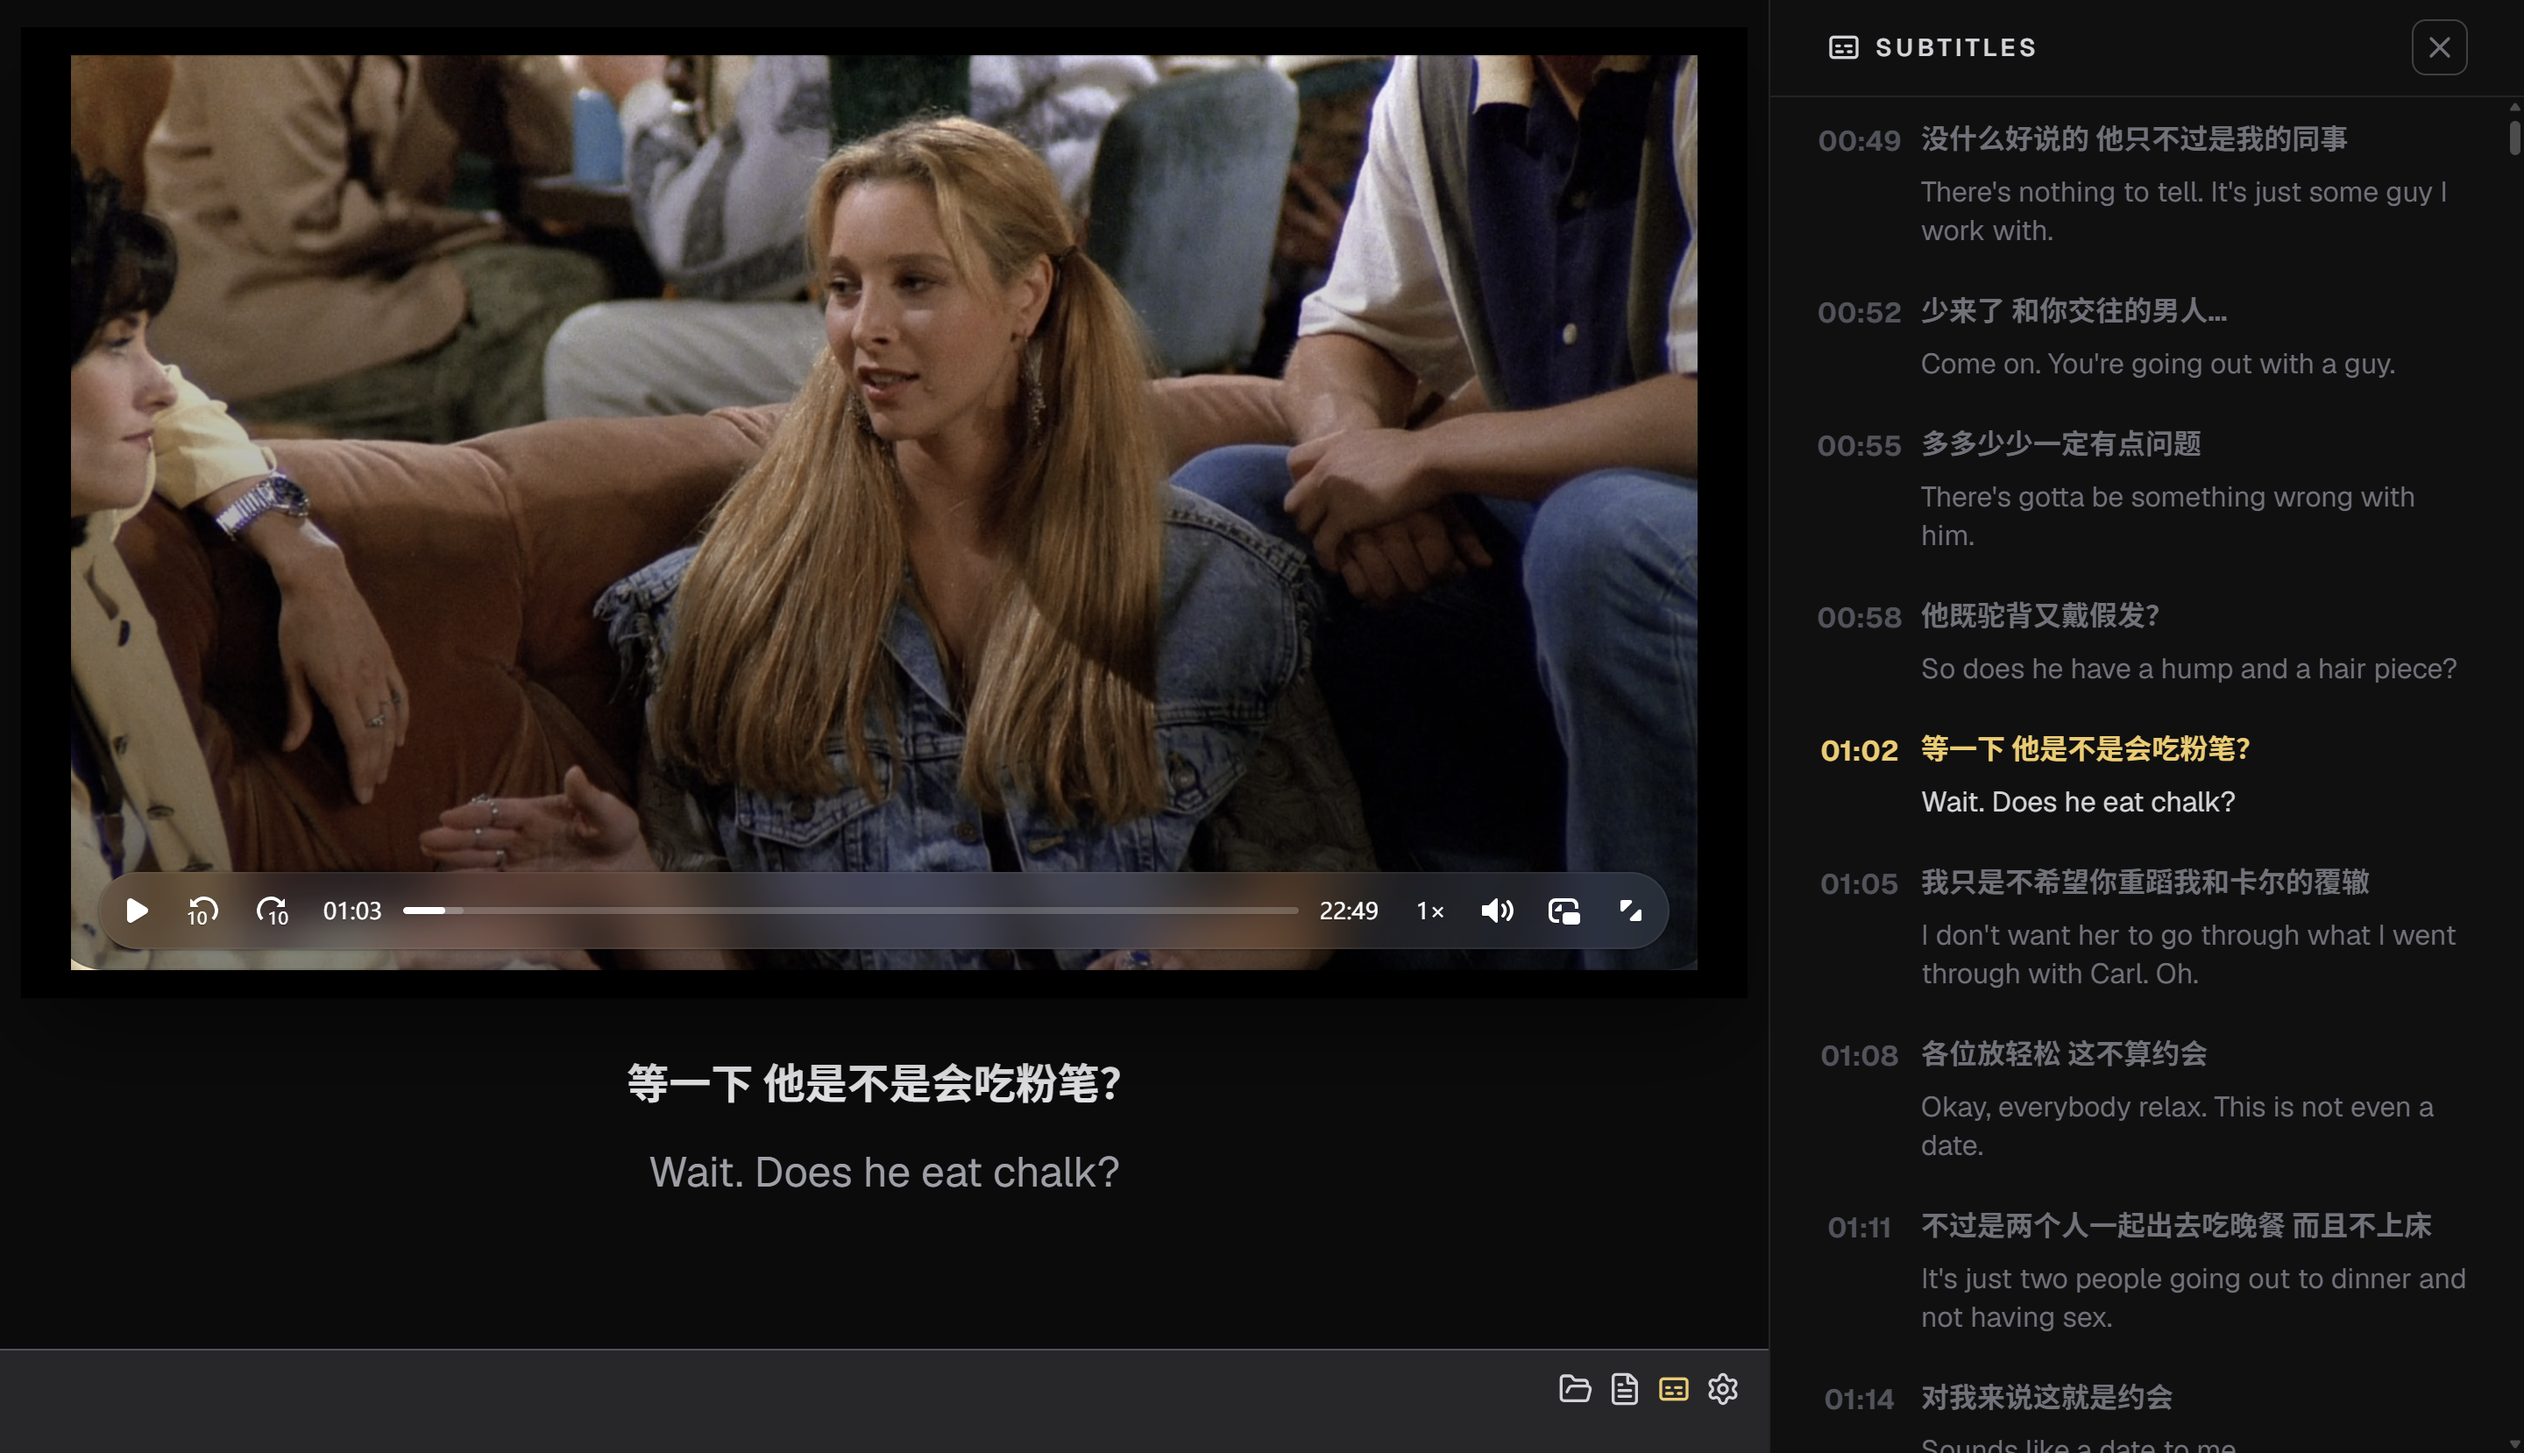
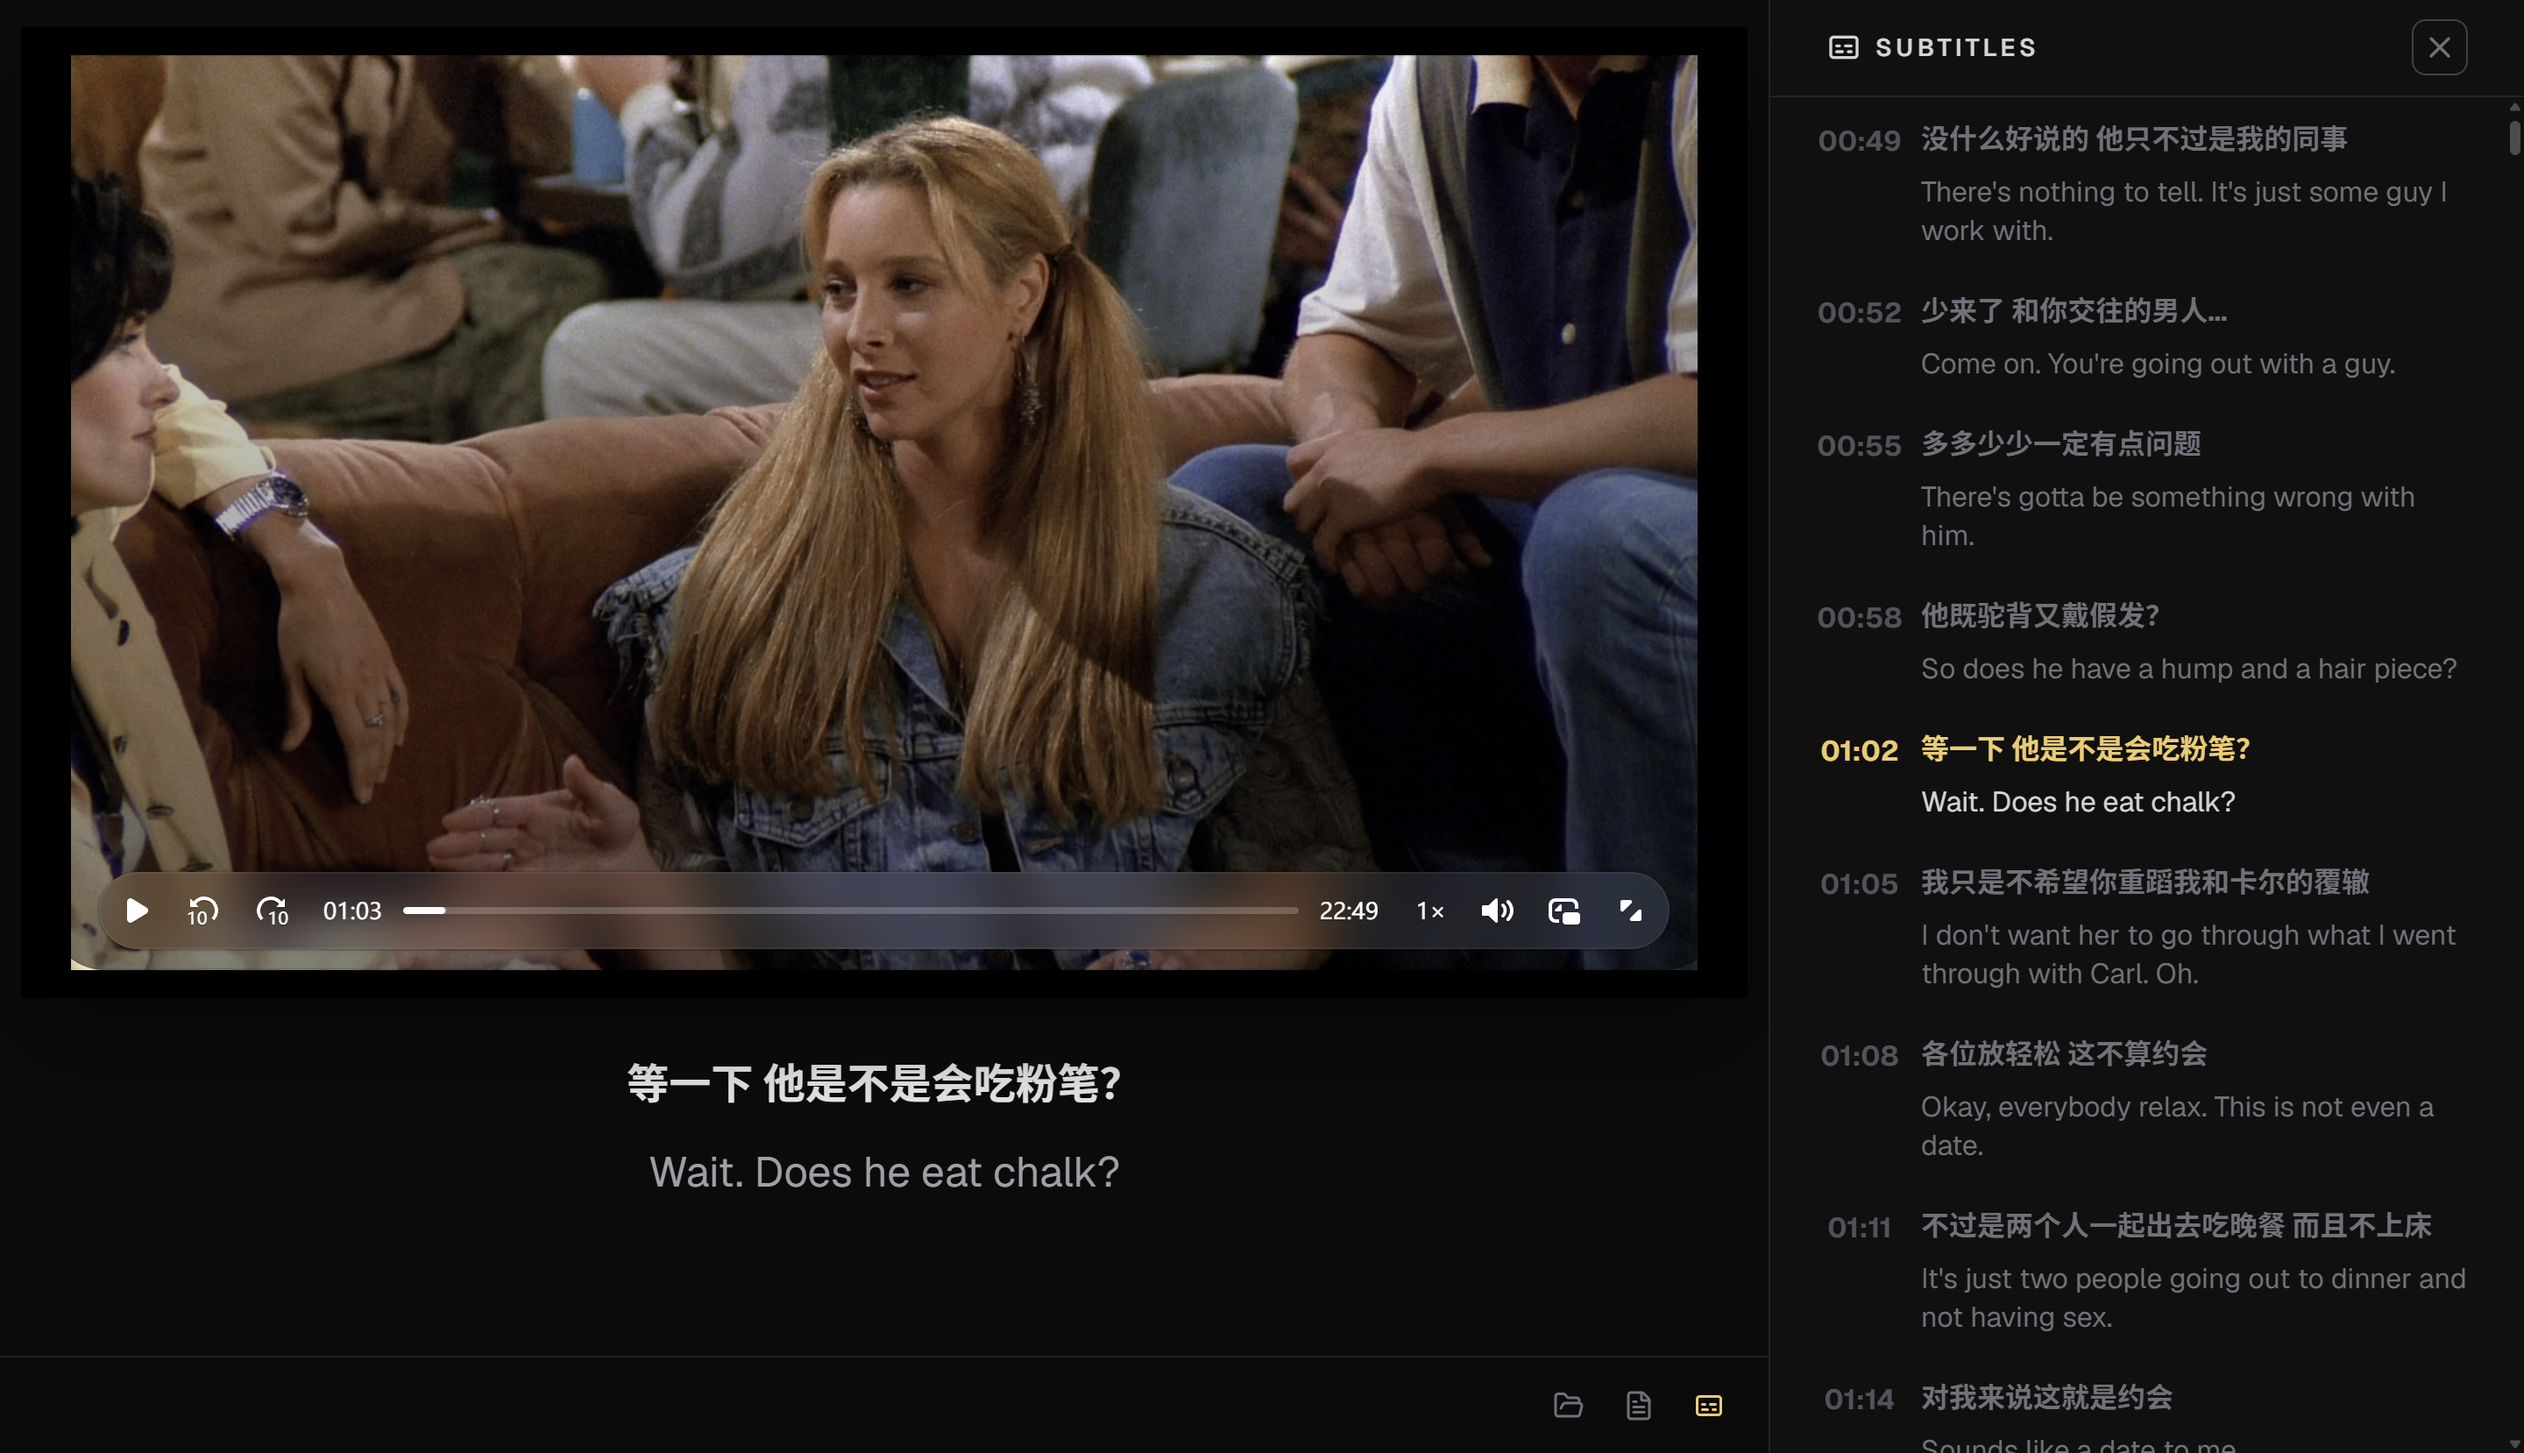
Redesign video player controls with improved styling
Reduced video player max height and redesigned the control bar with
rounded buttons, better hover states, and commented out the unused
settings button.

diff --git a/src/pages/PlayerPage.tsx b/src/pages/PlayerPage.tsx
@@ -169,7 +169,7 @@ export const PlayerPage = () => {
       <main className="relative flex min-h-0 flex-col border-r border-white/10 bg-[#0b0b0b]">
         <div className="min-h-0 flex-1 px-3 py-4">
           {/* Video Player */}
-          <div className="max-h-200 p-4 relative mx-auto aspect-video min-w-200 overflow-hidden bg-black shadow-2xl shadow-black/60">
+          <div className="max-h-140 p-4 relative mx-auto aspect-video min-w-200 overflow-hidden bg-black shadow-2xl shadow-black/60">
             <VideoPlayer
               src={videoSrc}
               videoRef={videoRef}
@@ -197,30 +197,38 @@ export const PlayerPage = () => {
         </div>
 
         {/* Controls */}
-        <div className="mt-auto h-15 px-4 py-3 border-t border-t-zinc-600 w-full bg-zinc-800">
-          <div className="flex justify-end items-center gap-2 text-zinc-300">
-            <button
-              className="transition hover:text-white"
-              onClick={handleOpenFile}
-              title="Open Video"
-            >
-              <FolderOpen size={20} />
-            </button>
-            <button
-              className="transition hover:text-white"
-              onClick={handleLoadSubtitle}
-              title="Load Subtitle"
-            >
-              <FileText size={20} />
-            </button>
-            <button
-              className={`transition ${sidebarOpen ? "text-[#f5cc64]" : "text-zinc-300 hover:text-white"}`}
-              onClick={() => setSidebarOpen((open) => !open)}
-            >
-              <Subtitles size={20} />
-            </button>
-            <Settings size={20} />
-          </div>
+        <div className="mt-auto z-100 flex h-14 items-center justify-end gap-1 border-t border-white/8 px-4 bg-[#0b0b0b]">
+          <button
+            className="flex size-9 items-center justify-center rounded-md text-zinc-500 transition hover:bg-white/5 hover:text-zinc-200"
+            onClick={handleOpenFile}
+            title="Open Video"
+          >
+            <FolderOpen size={18} />
+          </button>
+          <button
+            className="flex size-9 items-center justify-center rounded-md text-zinc-500 transition hover:bg-white/5 hover:text-zinc-200"
+            onClick={handleLoadSubtitle}
+            title="Load Subtitle"
+          >
+            <FileText size={18} />
+          </button>
+          <button
+            className={`flex size-9 items-center justify-center rounded-md transition hover:bg-white/5 ${
+              sidebarOpen
+                ? "text-[#f5cc64]"
+                : "text-zinc-500 hover:text-zinc-200"
+            }`}
+            onClick={() => setSidebarOpen((open) => !open)}
+            title="Subtitles"
+          >
+            <Subtitles size={18} />
+          </button>
+          {/*<button
+            className="flex size-9 items-center justify-center rounded-md text-zinc-500 transition hover:bg-white/5 hover:text-zinc-200"
+            title="Settings"
+          >
+            <Settings size={18} />
+          </button>*/}
         </div>
       </main>
 
